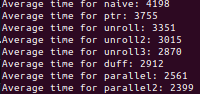
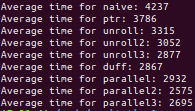
Update

diff --git a/vector.c b/vector.c
@@ -99,8 +99,8 @@ int compute_total_unroll3(int* vec, int len) {
 }
 
 int compute_total_duff(int* vec, int len) {
-    int tot = 0;
-    int n = (len + 7) / 8;
+    register int tot = 0;
+    register int n = (len + 7) / 8;
 
     switch (len % 8) {
         case 0: do{ tot += *vec++;
@@ -123,6 +123,21 @@ int compute_total_parallel(int* vec, int len) {
     int times = len / 2;
 
     for (int i = 0; i < times; i++) {
+        tot1 += vec[i];
+        tot2 += vec[i+1];
+    }
+
+    if (len % 2 == 1) tot1 += vec[len-1];
+
+    return tot1 + tot2;
+}
+
+int compute_total_parallel2(int* vec, int len) {
+    int tot1 = 0;
+    int tot2 = 0;
+    int times = len / 2;
+
+    for (int i = 0; i < times; i++) {
         tot1 += *vec++;
         tot2 += *vec++;
     }
@@ -132,7 +147,7 @@ int compute_total_parallel(int* vec, int len) {
     return tot1 + tot2;
 }
 
-int compute_total_parallel2(int* vec, int len) {
+int compute_total_parallel3(int* vec, int len) {
     int tot1 = 0;
     int tot2 = 0;
     int* end = vec + len - 1;
@@ -161,5 +176,6 @@ int main() {
     printf("Average time for duff: %d\n", measure_time(compute_total_duff, 100, vec, BUFFER_SIZE));
     printf("Average time for parallel: %d\n", measure_time(compute_total_parallel, 100, vec, BUFFER_SIZE));
     printf("Average time for parallel2: %d\n", measure_time(compute_total_parallel2, 100, vec, BUFFER_SIZE));
+    printf("Average time for parallel3: %d\n", measure_time(compute_total_parallel3, 100, vec, BUFFER_SIZE));
 }
 
